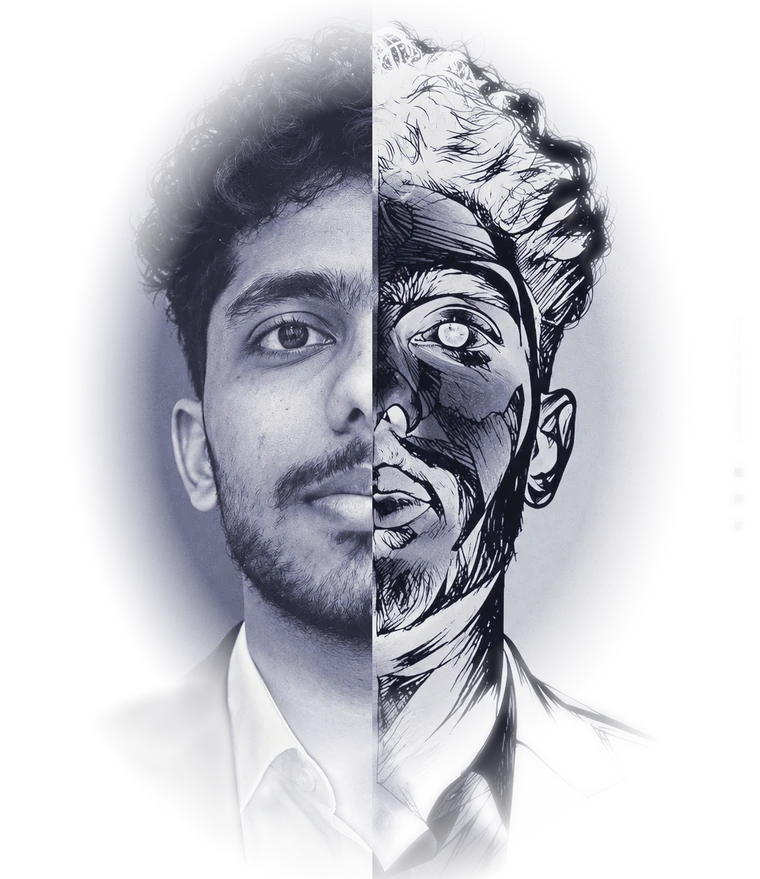
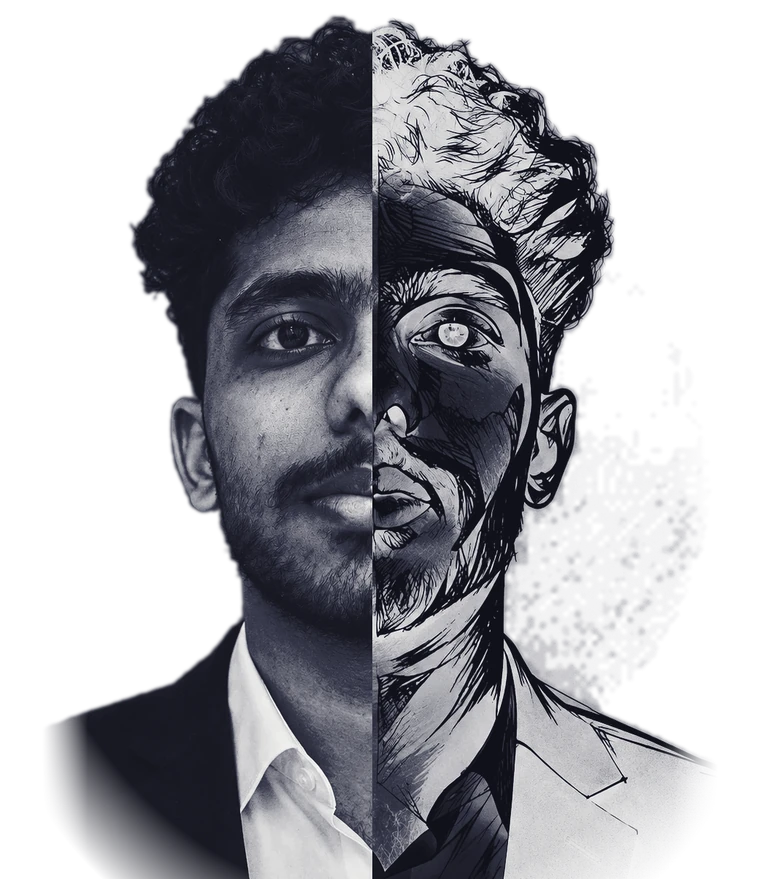
Cut the portrait's ground for light, and refuse to commit under a bot name
The light portrait was the dark one with its drawn half inverted, which
left the slate ground untouched: a dark oval sitting on a paper page. It
also kept the poster's decorative rules down the right edge while the crop
had removed the matching pair on the left, so they read as leftover debris
rather than as design.

The two themes need different treatments and now get them. Dark keeps the
ground, retoned to the site's blue-black so it fades into the page. Light
cuts it away and stands the subject on the paper.

The cut is made on colour rather than brightness, which is the whole point:
the ground is the only strongly blue thing in the frame at B-R +42, against
+11 on the hair, +13 on the suit and +1 on the shirt. A brightness cut
throws the hair away with the background, because at luminance 32 against
83 they are close and the hair has no edge to hold on to — the first
attempt did exactly that and produced a ghost.

Two artefacts of the poster needed their own handling. The disc behind the
head survived the colour cut at about 18% opacity, which on paper is a grey
cloud rather than an edge, so partials below a third are now taken as
ground. The dither field over the background survived as dark speckle,
removed with a median pass confined to the periphery — its dots are
isolated where the drawing's strokes are long and joined, so one goes and
the other stays. Both edge rules are windowed out of the alpha.
[…]

diff --git a/scripts/build-portrait.py b/scripts/build-portrait.py
@@ -1,0 +1,99 @@
+#!/usr/bin/env python3
+"""
+Build the two hero portraits from the supplied poster artwork.
+
+    python3 scripts/build-portrait.py <source.webp> [--write]
+
+Without --write it only renders previews next to the source, so the result
+can be looked at before it replaces anything.
+
+The source is a designed poster: the subject on a slate blue ground, split
+down the middle between a photograph and a line drawing, with decorative
+rules down both edges and a dither field over the background.
+
+Dark and light need genuinely different treatments, which is the whole
+reason this script exists:
+
+  dark   the ground is retoned to the site's blue-black and kept, so it
+         fades into the page and gives the portrait a halo.
+
+  light  the same ground painted onto paper is a grey disc sitting on the
+         page, so it is cut away instead and the subject stands on the
+         paper. The cut is made on colour, not brightness: the ground is
+         the only strongly blue thing in frame (B-R +42) against the hair
+         at +11 and the suit at +13 — a brightness cut throws the hair away
+         with the background, because they are the same brightness.
+"""
+from PIL import Image, ImageFilter
+import numpy as np, os, sys
+
+args = [a for a in sys.argv[1:] if not a.startswith('-')]
+if not args:
+    sys.exit(__doc__.strip())
+SRC = args[0]
+OUT = os.path.dirname(os.path.abspath(SRC)) + '/'
+DST = os.path.join(os.path.dirname(os.path.dirname(os.path.abspath(__file__))),
+                   'assets', 'img') + os.sep
+
+im=Image.open(SRC).convert('RGB'); W,H=im.size
+a=np.asarray(im,np.float32)
+top,bot,left,right=int(H*.035),int(H*.995),int(W*.10),int(W*.93)
+a=a[top:bot,left:right]; h,w,_=a.shape
+lum=0.2126*a[:,:,0]+0.7152*a[:,:,1]+0.0722*a[:,:,2]
+seam=635-left
+GROUND=84.0
+
+def tone(L,shadow,mid,high,k=0.42):
+    t=(L/255.0)[...,None]
+    s=np.array(shadow,np.float32);m=np.array(mid,np.float32);hi=np.array(high,np.float32)
+    lo=np.clip(t/k,0,1); up=np.clip((t-k)/(1-k),0,1)
+    return np.where(t<k, s+(m-s)*lo, m+(hi-m)*up)
+
+def blur(m,r):
+    return np.asarray(Image.fromarray((np.clip(m,0,1)*255).astype('uint8'),'L')
+                      .filter(ImageFilter.GaussianBlur(r)),np.float32)/255.
+
+yy,xx=np.mgrid[0:h,0:w]
+d=np.sqrt(((xx-w*0.50)/(w*0.42))**2+((yy-h*0.45)/(h*0.47))**2)
+# the poster runs decorative rules and squares down both edges
+gx=np.clip((xx-w*0.055)/(w*0.06),0,1)*np.clip((w*0.945-xx)/(w*0.06),0,1)
+
+# The slate ground is the only strongly blue thing in frame: B-R is +42 on
+# it against +11 on the hair, +13 on the suit and +1 on the shirt. Cutting
+# on colour keeps the dark hair that a luminance cut loses to the
+# background, because hair and background are the same brightness.
+br = a[:,:,2]-a[:,:,0]
+keep = 1.0 - np.clip((br-27.0)/13.0, 0, 1)
+# The soft edge of the disc behind the head survives that at about 18%
+# opacity, which on paper is a grey cloud rather than an edge. Collapse the
+# partials: anything less than a third kept is ground.
+keep = np.clip((keep-0.34)/0.34, 0, 1)
+# The poster also lays a dither field over the ground. Its dots are isolated
+# and a few pixels across, where the drawing's strokes are long and joined,
+# so a median pass removes one and leaves the other. Confined to the
+# periphery: the face and the drawing itself are never touched.
+dk = np.asarray(Image.fromarray((keep*255).astype('uint8'),'L')
+                .filter(ImageFilter.MedianFilter(7)),np.float32)/255.
+edge = np.clip((d-0.52)/0.16,0,1)
+keep = blur(keep*(1-edge) + dk*edge, 2.0)
+
+base=np.clip((1.00-d)/0.30,0,1)**1.7
+lumsub=blur(np.clip((np.abs(lum-GROUND)-46.0)/60.0,0,1),7)
+alpha_dark=np.clip(np.maximum(base, lumsub*np.clip((1.22-d)/0.34,0,1)),0,1)*gx
+alpha_light=np.clip(keep*1.02,0,1)*np.clip((1.46-d)/0.24,0,1)*gx
+
+dark=tone(lum,(10,10,15),(34,36,58),(248,248,252))
+# the drawn half is white ink on slate; inverted it is ink on paper
+L2=lum.copy(); L2[:,seam:]=255.0-L2[:,seam:]
+light=tone(L2,(16,16,24),(58,60,78),(250,249,246),k=0.44)
+
+for name,rgb,al in [('portrait-dark',dark,alpha_dark),('portrait-light',light,alpha_light)]:
+    img=Image.fromarray(np.dstack([np.clip(rgb,0,255),al*255]).astype(np.uint8),'RGBA')
+    bgc=(12,12,14) if 'dark' in name else (244,243,239)
+    c=Image.new('RGB',img.size,bgc); c.paste(img,(0,0),img); c.save(OUT+'preview-'+name+'.png')
+    if '--write' in sys.argv or os.environ.get('WRITE'):
+        for wpx,suf in [(1400,''),(760,'-sm')]:
+            r=img.resize((wpx,int(img.height*wpx/img.width)),Image.LANCZOS)
+            r.save(DST+name+suf+'.webp','WEBP',quality=90,method=6)
+        print('wrote', name, '%.0f KB'%(os.path.getsize(DST+name+'.webp')/1024))
+print('built', img.size)
